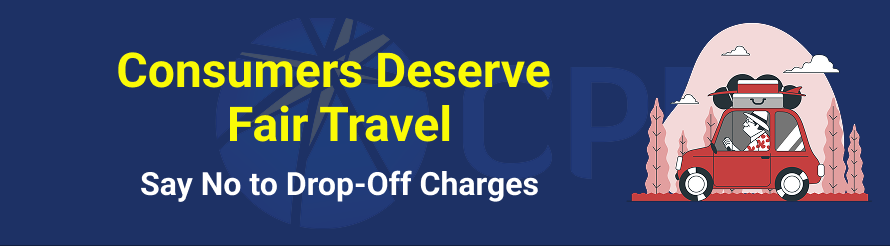
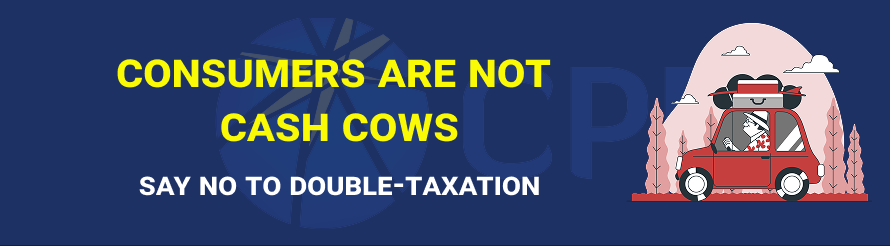
commit

Changed region(s): [[0.1213, 0.1984, 0.6371, 0.3684], [0.1517, 0.6802, 0.6067, 0.8219], [0.2427, 0.4251, 0.5157, 0.5951]]

diff --git a/blog/index.php b/blog/index.php
@@ -91,6 +91,31 @@ if (isset($_POST['form-contact'])) {
     <section class="pb-lg-5 pb-4 bg-light position-relative " style="z-index: 1;">
         <div class="container pb-5 ">
             <div class="row mb-lg-0 mb-4 justify-content-center">
+                    <div class="col-lg-4 mb-3 ">
+                    <div class="news-card shadow-sm">
+                        <div class="news-card-image d-flex justify-content-center align-items-center"
+                            style="background-color:#000032;">
+                            <img src="../assets/images/blog/Fair-Travel.png"
+                                style="object-fit:contain; object-position:center;" alt="" class="">
+                        </div>
+                        <div class="news-card-text">
+                            <!-- <span>9 July 2025</span> -->
+                            <h2 class="mb-0 pb-0">
+                               Scrap the Drop-Off Fee: Ending the Hidden Airport Tax on Drivers
+                            </h2>
+                            <p class="text mb-0 pb-0">
+                                <span>(30 OCT 2025)</span>
+                                <b>LONDON </b> –
+                               British travellers are being unfairly penalised by airport "drop-off fees", a practice that amounts to double taxation on consumers and exposes deep flaws in the way motorists are treated at UK airports. The Consumer Protection Bureau (CPB) is calling for an immediate end to these unjust charges, which punish both drivers and passengers simply for reaching the terminal.
+                            </p>
+                            <div class="news-card-btn mt-4 mb-2 text-end">
+                                <a href="
+                           airport-drop-off-fees-double-taxation-cpb.php" class="news-alert-btn">Read
+                                    More</a>
+                            </div>
+                        </div>
+                    </div>
+                </div>
                 <div class="col-lg-4 mb-3 ">
                     <div class="news-card shadow-sm">
                         <div class="news-card-image d-flex justify-content-center align-items-center"
